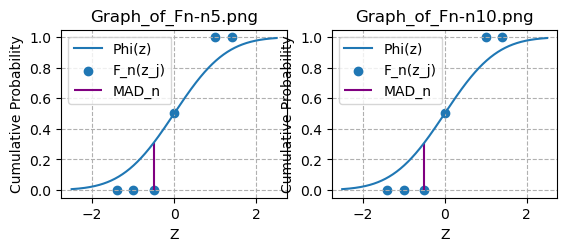
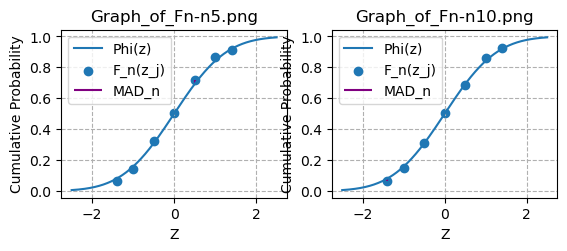
Fixed incorrect z score calculations. Fixed missing z_j. Graphs look much better, but diverge away from the standard normal cdf as n increases.

diff --git a/Project 3/MonteCarlo.py b/Project 3/MonteCarlo.py
@@ -83,7 +83,6 @@ plt.legend()
 plt.savefig("three_circles.png", bbox_inches='tight')
 plt.show()
 
-
 # 4) LAWS OF LARGE NUMBERS
 
 # OBJECTIVE 2: Demonstrate empirically the convergence of the sample mean to the population mean,
@@ -99,22 +98,23 @@ plt.show()
 x_0 = 1000
 a_q = 24693
 c_q = 3967
-K_q = 2**18
+K_q = 2 ** 18
+
 
 # Random Number generator
 
 
-def nextRandom():
+def next_random():
     global x_0
-    x_0 = (a_q*x_0+c_q) % K_q
-    return x_0/K_q
+    x_0 = (a_q * x_0 + c_q) % K_q
+    return x_0 / K_q
 
 
 # inverse cdf of x function
 
 
 def inv_cdf_x(num):
-    return np.sqrt(-2*np.log(1-num))/a
+    return np.sqrt(-2 * np.log(1 - num)) / a
 
 
 # Monte Carlo Simulation function. Returns a list with n realizations of X.
@@ -123,7 +123,7 @@ def inv_cdf_x(num):
 def monte_carlo(n):
     realizations = []
     for i in range(n):
-        realizations.append(inv_cdf_x(nextRandom()))
+        realizations.append(inv_cdf_x(next_random()))
 
     return realizations
 
@@ -133,7 +133,7 @@ def monte_carlo(n):
 random_nums = []
 
 for i in range(1, 55):
-    random_nums.append(round(nextRandom(), 4))
+    random_nums.append(round(next_random(), 4))
 
 print("Values of u_1, u_2, and u_3:")
 print(random_nums[0])
@@ -165,9 +165,9 @@ for n in n_vec1:
         abscissa1.append(n)
         ordinate1.append(sample_mean(n))
 
-mu_x = 1/a * np.sqrt(np.pi/2)
+mu_x = 1 / a * np.sqrt(np.pi / 2)
 mu_x_vec = np.full((770,), mu_x)
-var_x = (4 - np.pi)/(2*a**2)
+var_x = (4 - np.pi) / (2 * a ** 2)
 
 fig, ax0 = plt.subplots(1)
 
@@ -199,6 +199,7 @@ plt.show()
 
 K = 550
 
+# construct the standard normal cdf and vectors for graphing it.
 normal = NormalDist()
 phi_abscissa = np.linspace(-2.5, 2.5, K)
 phi = []
@@ -208,6 +209,7 @@ for phi_i in phi_abscissa:
 # Variables to store quantities for 5.3
 mean_var_n = []
 AD_n = []
+
 n_index = 1
 
 for n in [5, 10, 15, 30]:
@@ -225,29 +227,26 @@ for n in [5, 10, 15, 30]:
         m_n.append(sample_mean(n))
 
     # 5.2.2.1) calculate the estimates of the mean and variance of M_n
-    mean = sum(m_n)/K
-    variance = sum(np.subtract(np.power(m_n, 2), mean**2)) / K
+    mean = np.sum(m_n) / K
+    variance = np.sum(np.subtract(np.power(m_n, 2), mean ** 2)) / K
 
-    mean_var_n.append([n, mean, variance, mu_x, np.sqrt(var_x)/np.sqrt(n)])
+    mean_var_n.append([n, mean, variance, mu_x, np.sqrt(var_x) / np.sqrt(n)])
 
     # 5.2.2.2) transform the sample of M_n into a sample of the standardized random variable Z_n
-    z_n = np.divide(np.subtract(m_n, mean), variance)
-    z_n_sorted = sorted(z_n)
+    z_n = np.divide(np.subtract(m_n, mean), np.sqrt(variance))
 
     # 5.2.2.3) estimate from the sample of Z_n the probabilities of seven events
-    z_j = [-1.4, -1.0, -0.5, 0, 1.0, 1.4]
+    z_j = [-1.4, -1.0, -0.5, 0, 0.5, 1.0, 1.4]
 
     AD_j = [n]
-    for j in range(0, 6) :
+    for j in range(7):
         # find percentage of z_n values less than or equal to z_j
         counter = 0
-        for z in z_n_sorted:
+        for z in z_n:
             if z <= z_j[j]:
                 counter += 1
-            else:
-                break
 
-        F_n.append(counter/K)
+        F_n.append(counter / K)
 
         # 5.2.2.4) Evaluate the goodness-of-fit using the MAD
         MAD_j = abs(F_n[j] - normal.cdf(z_j[j]))
@@ -289,9 +288,9 @@ for n in [5, 10, 15, 30]:
     n_index += 1
 
 plt.show()
-plt.savefig('5.3_Graph_Panel.png', bbox_inches='tight')
+# plt.savefig('5.3_Graph_Panel.png', bbox_inches='tight')
 
-# 5.3) Summarize Results [might require further graphing and calculations, might not]
+# 5.3) Summarize Results
 # NOTE: LaTeX will read from a .csv file, so we probably want the code to output tabular results
 # as .csv files which we can then read directly instead of typing out the tables by hand,
 # which can be somewhat tedious, especially for large tables.
@@ -303,16 +302,16 @@ plt.savefig('5.3_Graph_Panel.png', bbox_inches='tight')
 # ii) a table comparing the estimates (mu_n, sigma_n) with the population values
 # (mu_x, sigma_x / sqrt(n) ) for every n.
 mean_var_n.insert(0, ['n', 'Sample Mean', 'Sample Standard Deviation', 'Population Mean',
-                        'Population Standard Deviation'])
+                      'Population Standard Deviation'])
 mean_var_df = pd.DataFrame(mean_var_n)
 mean_var_df.to_csv('mean_var.csv', index=False)
 
 # iii) a table reporting the absolute difference for every j and n, and the MAD for every n
 AD_n.insert(0, np.array(['n', 'Absolute Difference j = 1', 'Absolute Difference j = 2',
-             'Absolute Difference j = 3', 'Absolute Difference j = 4', 'Absolute Difference j = 5'
-             , 'Absolute Difference j = 6', 'Absolute Difference j = 7', 'MAD_n']))
+                         'Absolute Difference j = 3', 'Absolute Difference j = 4',
+                         'Absolute Difference j = 5', 'Absolute Difference j = 6',
+                         'Absolute Difference j = 7', 'MAD_n']))
 AD_df = pd.DataFrame(AD_n)
 AD_df.to_csv('AD_n.csv', index=False)
-
 
 # 5.4) and 5.5) should be strictly report.
